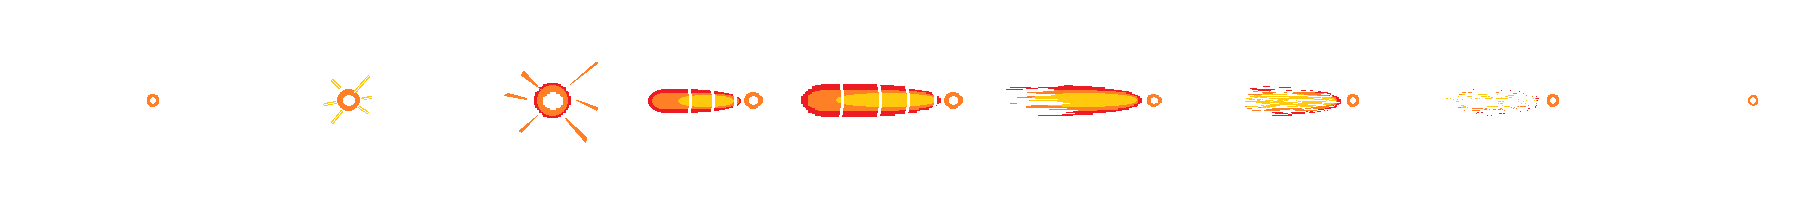
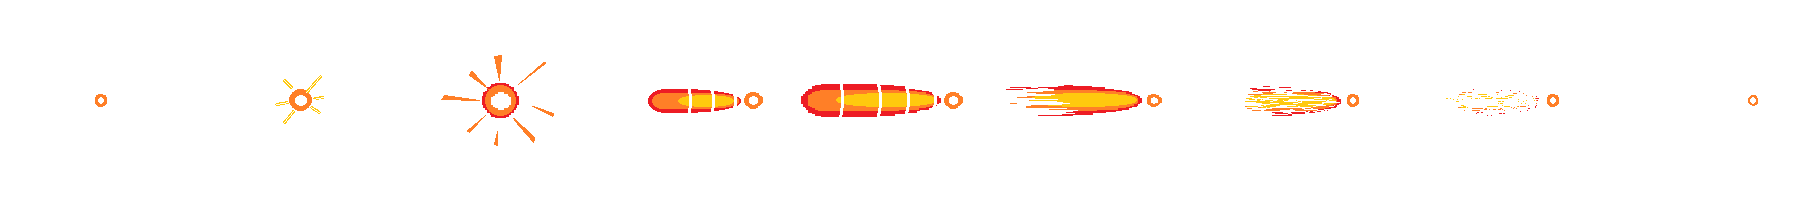
car]ジェットアニメーション

diff --git a/DxLib_TGS2025/Src/Object/car.cpp b/DxLib_TGS2025/Src/Object/car.cpp
@@ -111,6 +111,9 @@ void CarInit(void)
 
 	// 仮
 	car.goal_count = 0;
+	car.jet_angle = 0.0f;
+	car.jet_count = 0;
+	car.jet_num = 0;
 }
 
 void CarResourceInit(void)
@@ -244,6 +247,7 @@ void CarManagerUpdate(void)
 		CarLakeAnimation();
 		CarBoomAnimation();
 		CarSmokeAnimation();
+		CarJetAnimation();
 	}
 	else if (car.start == false && car.menu_flag == false && car.mitibiki_flag == false)
 	{
@@ -260,12 +264,12 @@ void CarDraw(void)
 		if (car.direction == eUp)
 		{
 			DrawRotaGraph(car.position.x, car.position.y, 0.1, 0.0, car.animation, TRUE);
-			/*CarJetDraw(car.position.x, car.position.y, car.direction);*/
+			CarJetDraw(car.position.x, car.position.y, car.direction);
 			//CarJetDraw2(car.position.x, car.position.y, car.direction);
 		}
 		else
 		{
-			/*CarJetDraw(car.position.x, car.position.y, car.direction);*/
+			CarJetDraw(car.position.x, car.position.y, car.direction);
 			//CarJetDraw2(car.position.x, car.position.y, car.direction);
 			DrawRotaGraph(car.position.x, car.position.y, 0.1, 0.0, car.animation, TRUE);
 		}
@@ -780,7 +784,7 @@ void CarGoalCheck(const CreateStage* stage)
 		stage->array[car.next_x[car.road_count]][car.next_y[car.road_count] + 1] == 7 && car.next_y[car.road_count] != 6)
 	{
 		car.goal_count++;
-		if (car.goal_count > 50)
+		if (car.goal_count > 150)
 		{
 			//車の速度を上げる
 			car.velocity.x = 5.0f;
@@ -1186,17 +1190,92 @@ void CarWarnUpdate(const Goal*goal,const GameOver*gameover,const InGame*ingame)
  // 急発進アニメーション
  void CarJetAnimation(void)
  {
-	 
+	 if (car.goal_flag)
+	 {
+		 car.jet_angle = (3.14 / 180) * car.goal_count;
+	 }
+
+	 if (car.goal_count < 30)
+	 {
+		 car.jet_num = 0;
+	 }
+	 else if (car.goal_count < 60)
+	 {
+		 car.jet_num = 1;
+	 }
+	 else if (car.goal_count < 150)
+	 {
+		 car.jet_num = 2;
+	 }
+	 else if (car.goal_count < 170)
+	 {
+		 car.jet_num = 4;
+	 }
+	 else if (car.goal_count < 180)
+	 {
+		 car.jet_num = 6;
+	 }
+	 else if (car.goal_count < 190)
+	 {
+		 car.jet_num = 7;
+	 }
+	 else if (car.goal_count < 200)
+	 {
+		 car.jet_num = 8;
+	 }
  }
 
  // 急発進描画
  void CarJetDraw(float x, float y, int direction)
  {
-	 /*if (car.goal_count < 30)
+	 if (car.goal_flag)
 	 {
-		 DrawRotaGraph(x+10.0f, y+10.0f, 1.0, 0.0, car.jet_image[4], TRUE);
-	 }*/
-	 DrawRotaGraph(x + 10.0f, y + 10.0f, 1.0, 0.0, car.jet_image[4], TRUE);
+		 switch (direction)
+		 {
+		 case eUp:
+			 if (car.goal_count < 150)
+			 {
+				 DrawRotaGraph(x, y + 10.0f, 1.0, car.jet_angle, car.jet_image[car.jet_num], TRUE);
+			 }
+			 else if (car.goal_count < 200)
+			 {
+				 DrawRotaGraph(x, y + 70.0f, 1.0, -1.57, car.jet_image[car.jet_num], TRUE);
+			 }
+			 break;
+		 case eDown:
+			 if (car.goal_count < 150)
+			 {
+				 DrawRotaGraph(x, y - 10.0f, 1.0, car.jet_angle, car.jet_image[car.jet_num], TRUE);
+			 }
+			 else if (car.goal_count < 200)
+			 {
+				 DrawRotaGraph(x, y - 70.0f, 1.0, 1.57, car.jet_image[car.jet_num], TRUE);
+			 }
+			 break;
+		 case eRight:
+			 if (car.goal_count < 150)
+			 {
+				 DrawRotaGraph(x - 50.0f, y + 10.0f, 1.0, car.jet_angle, car.jet_image[car.jet_num], TRUE);
+			 }
+			 else if (car.goal_count < 200)
+			 {
+				 DrawRotaGraph(x - 100.0f, y + 10.0f, 1.0, 0.0, car.jet_image[car.jet_num], TRUE);
+			 }
+			 break;
+		 case eLeft:
+			 if (car.goal_count < 150)
+			 {
+				 DrawRotaGraph(x + 50.0f, y + 10.0f, 1.0, car.jet_angle, car.jet_image[car.jet_num], TRUE);
+			 }
+			 else if (car.goal_count < 200)
+			 {
+				 DrawRotaGraph(x + 100.0f, y + 10.0f, 1.0, 3.14, car.jet_image[car.jet_num], TRUE);
+			 }
+			 break;
+		 default:
+			 break;
+		 }
+	 }
  }
 
 //ステージ番号と車の初期位置を取得

diff --git a/DxLib_TGS2025/Src/Object/car.h b/DxLib_TGS2025/Src/Object/car.h
@@ -93,6 +93,8 @@ struct Car
     //goal
     int jet_count;
     int jet_image[9];
+    int jet_num;
+    float jet_angle;
 
     int jet_count2;
     int jet_image2;
